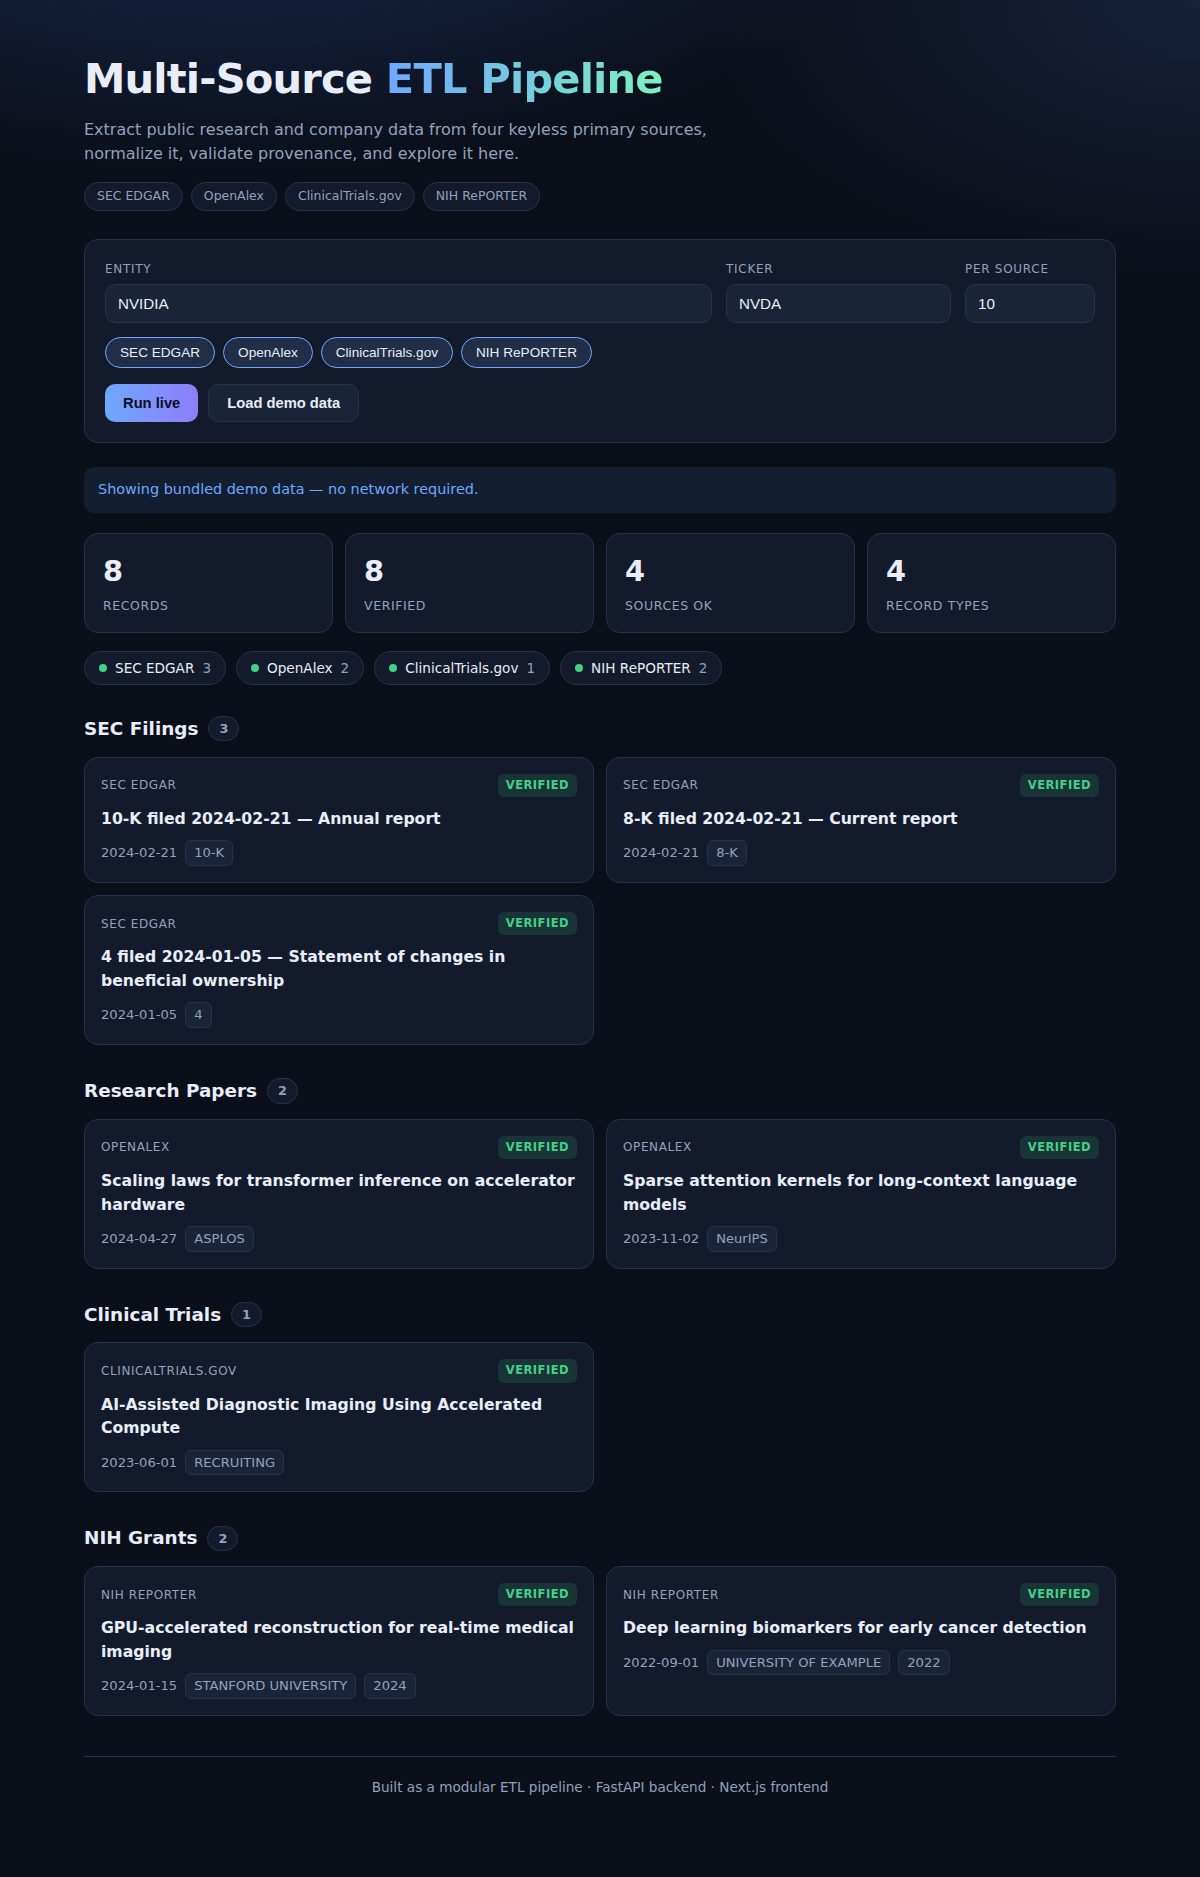
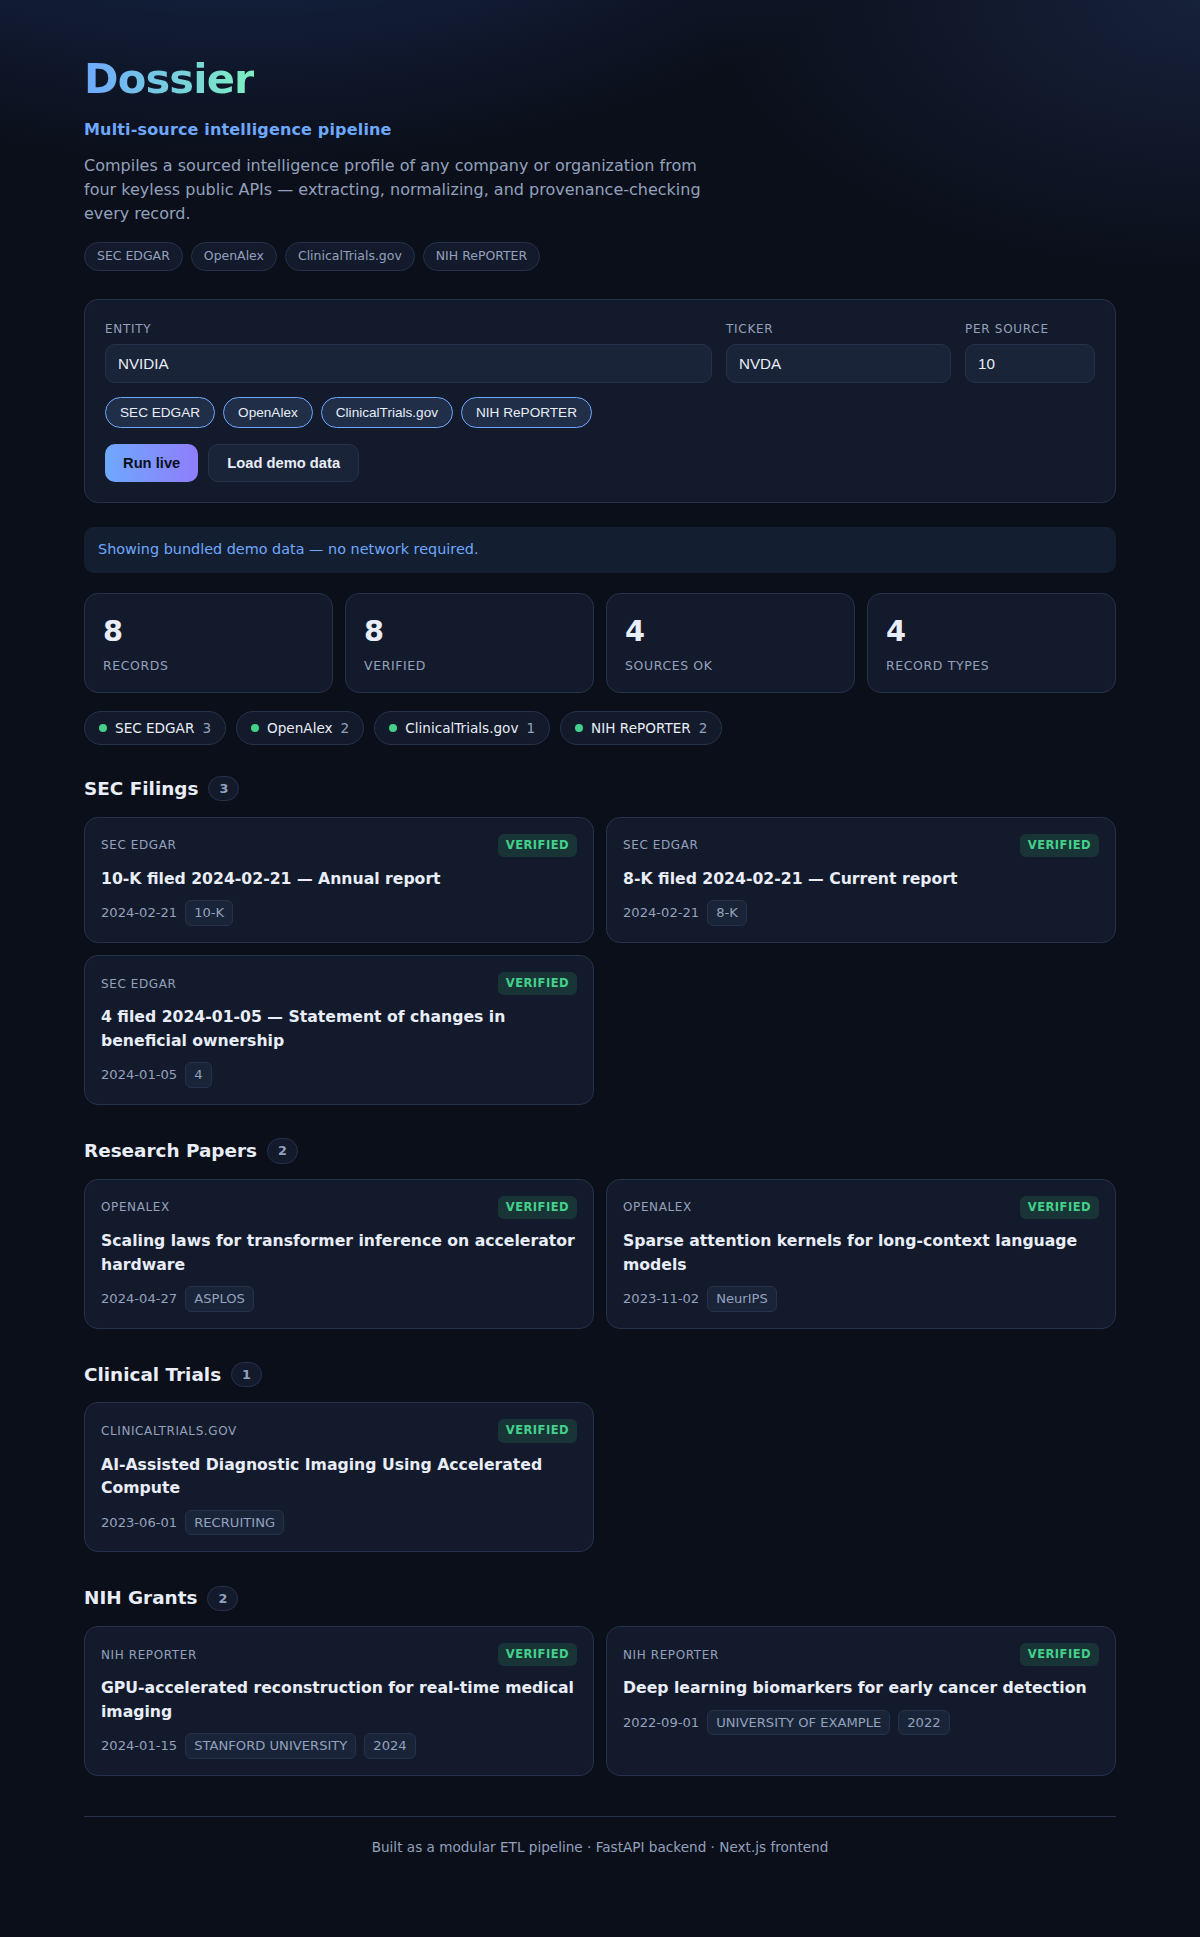
feat: brand the dashboard as Dossier

diff --git a/frontend/app/page.tsx b/frontend/app/page.tsx
@@ -51,11 +51,13 @@ export default function Home() {
     <main className="page">
       <header className="hero">
         <h1>
-          Multi-Source <span>ETL Pipeline</span>
+          <span>Dossier</span>
         </h1>
+        <p className="hero__tag">Multi-source intelligence pipeline</p>
         <p>
-          Extract public research and company data from four keyless primary
-          sources, normalize it, validate provenance, and explore it here.
+          Compiles a sourced intelligence profile of any company or organization
+          from four keyless public APIs — extracting, normalizing, and
+          provenance-checking every record.
         </p>
         <div className="hero__badges">
           <span>SEC EDGAR</span>

diff --git a/frontend/app/globals.css b/frontend/app/globals.css
@@ -53,6 +53,13 @@ body {
   color: transparent;
 }
 
+.hero__tag {
+  color: var(--accent) !important;
+  font-weight: 600;
+  letter-spacing: 0.01em;
+  margin: 0 0 12px !important;
+}
+
 .hero p {
   color: var(--muted);
   max-width: 640px;

diff --git a/frontend/app/layout.tsx b/frontend/app/layout.tsx
@@ -3,9 +3,9 @@ import type { ReactNode } from "react";
 import "./globals.css";
 
 export const metadata: Metadata = {
-  title: "Multi-Source ETL Pipeline",
+  title: "Dossier — Multi-Source Intelligence Pipeline",
   description:
-    "Extract public research and company data from four keyless primary sources.",
+    "Compiles a sourced intelligence profile of any company or organization from four keyless public APIs.",
 };
 
 export default function RootLayout({ children }: { children: ReactNode }) {